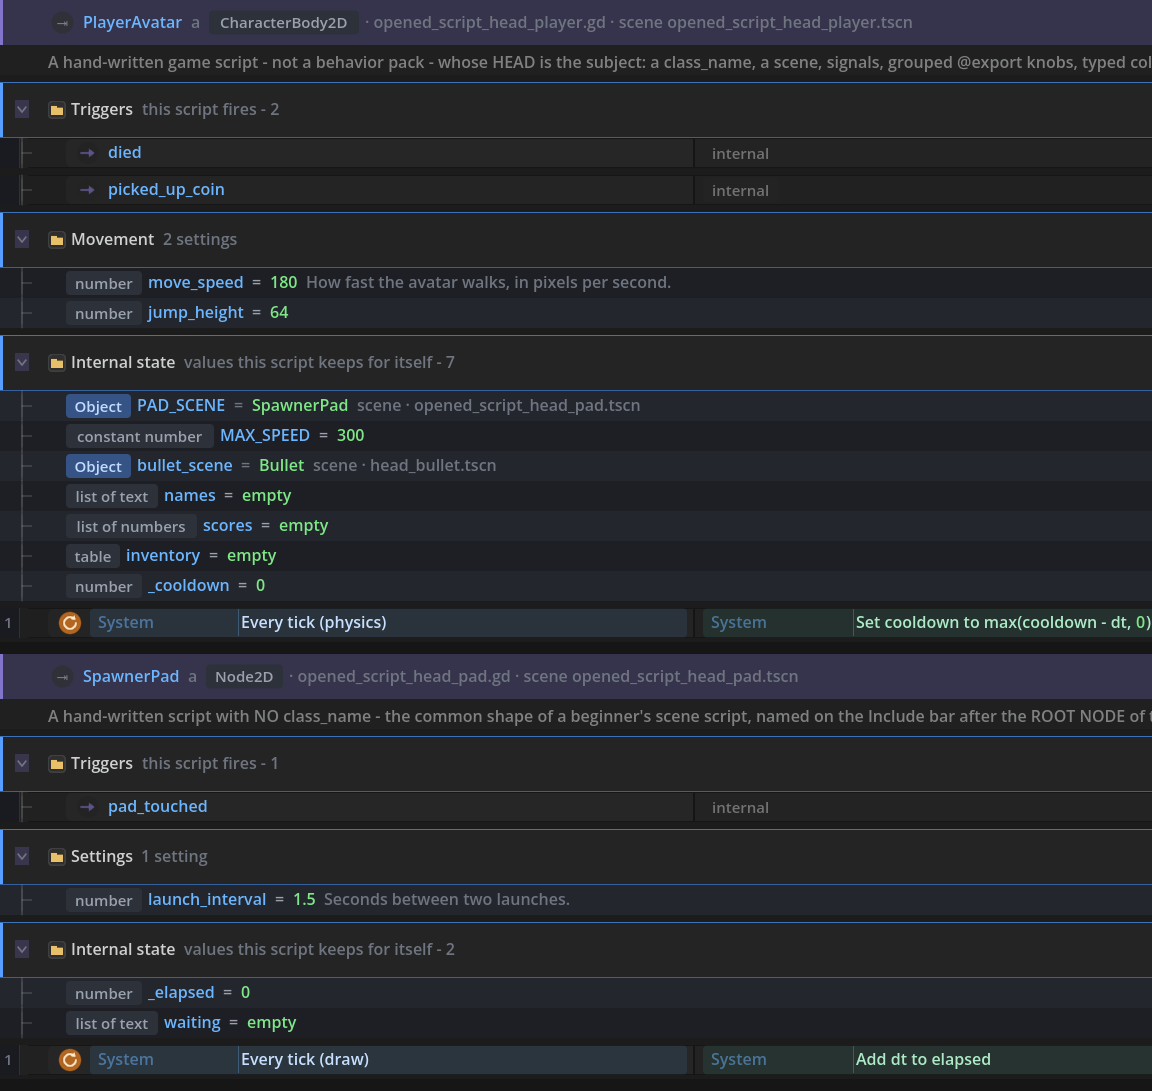
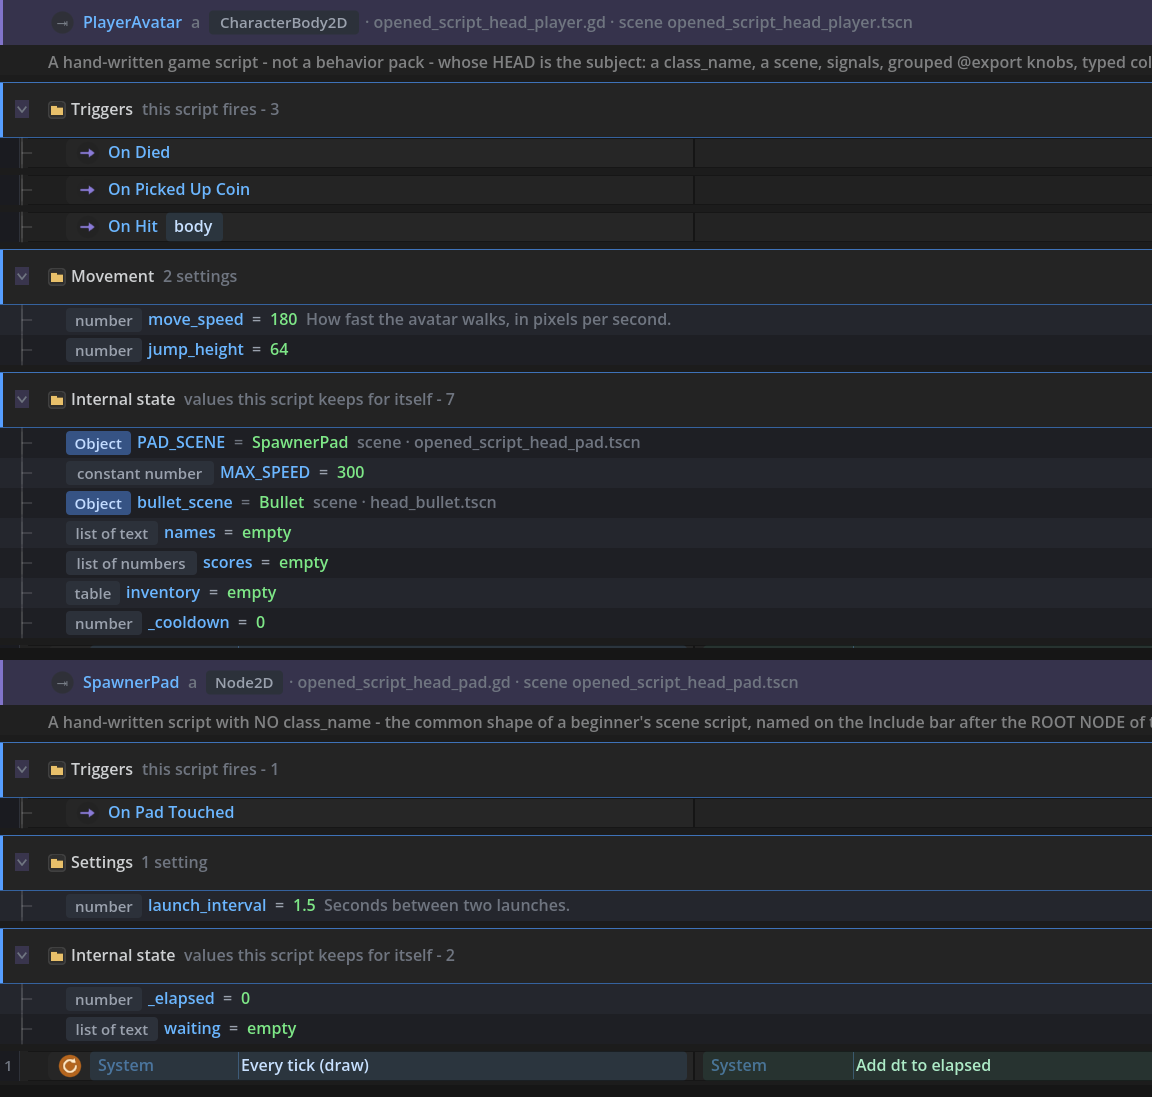
fix(editor): Compare wins over Is Same Object for literals, a plain script's signals read as its triggers, a lambda trigger's payload is a real chip
if i == 1 lifted as Is Same Object (its reverse template is the bare a == b);
identity now needs null / self / a node lookup / an object-typed member, so
literals and plain names read i = 1 / i ≠ 1. A plain script's Triggers folder
reads On Died / On Hit [body] instead of raw names with an internal note. Both
handler shapes draw the payload through one shared span, and the condition cell
reserves the width its trailing chips need instead of filling the lane.

diff --git a/CHANGELOG.md b/CHANGELOG.md
@@ -2,6 +2,29 @@
 
 ## [Unreleased]
 
+### Fixed - three rows of an opened file stopped saying things that were not true
+
+- **`if i == 1:` is a comparison, not an identity test.** Is The Same Object's reverse template is the
+  bare `{a} == {b}`, which matches every equality anybody ever wrote - so a loop counter against a
+  number read `i is the same object as 1`. The lifter now hands an equality to **Compare Variable**
+  unless one side is recognisably a reference (`null`, `self`, a `$Node` / `%Node` path, a `get_node`
+  / `get_parent()` lookup, or a member the file declared with an object type), and Is The Same Object
+  keeps only the rows it is actually about. `x == null` still reads `x does not exist`; the emitted
+  bytes are identical either way, because both templates emit `{a} == {b}`.
+- **And it reads the way a sheet reads it**: `i = 1`, `hp ≠ 3`. GDScript doubles the sign because a
+  language has to tell assignment from a question - a row is only ever the question.
+- **A plain script's signals are its triggers.** The Triggers folder listed them as raw rows -
+  `died | internal`, `picked_up_coin | internal`. They now read `➜ On Died`, `➜ On Picked Up Coin`,
+  `➜ On Hit  body` - the same shape every other trigger in the editor has, with the values the signal
+  passes as chips beside it. "internal" named a distinction only a behavior pack has, and a pack's
+  rows are unchanged.
+- **A connected lambda's payload is a chip, not words inside the cell.** `$Timer.timeout.connect(func(body): …)`
+  drew `On Hit   body` crammed into the trigger cell; it now draws the SAME payload span a lifted
+  signal handler's row draws, so one event reads one way whether it was wired with a `func` or a
+  lambda. The reason it was crammed in is fixed rather than worked around: a condition/trigger cell
+  reserves the width its trailing payload chips need instead of filling the lane to the divider and
+  leaving them a sliver - which is what a declared handler's `[body]` chip had been drawing as too.
+
 ### Added - the head of an opened plain script reads as the object it drives
 
 Opening somebody's own `.gd` used to say `⇥ Script` and then list GDScript type names -

diff --git a/addons/eventsheet/help/GUIDE-BLOCK-STYLES.md b/addons/eventsheet/help/GUIDE-BLOCK-STYLES.md
@@ -87,6 +87,10 @@ The ➜ badge (bright for a published trigger, dimmed for an internal signal), t
 one field cell per value the signal passes, and the action lane stating the one thing the left
 lane hides: `emits state_changed`, or `internal`.
 
+In an opened plain script the row takes the trigger shape instead - `➜ On Died`, `➜ On Hit  body` -
+because there every declared signal simply IS one of the file's triggers, with the values it passes
+as chips beside it. "internal" names a distinction only a behavior pack has.
+
 ## Published verbs (Define rows)
 
 A pack's exposed function reads as a Define row - role badge, friendly name, category chip -

diff --git a/docs/GUIDE-BLOCK-STYLES.md b/docs/GUIDE-BLOCK-STYLES.md
@@ -87,6 +87,10 @@ The ➜ badge (bright for a published trigger, dimmed for an internal signal), t
 one field cell per value the signal passes, and the action lane stating the one thing the left
 lane hides: `emits state_changed`, or `internal`.
 
+In an opened plain script the row takes the trigger shape instead - `➜ On Died`, `➜ On Hit  body` -
+because there every declared signal simply IS one of the file's triggers, with the values it passes
+as chips beside it. "internal" names a distinction only a behavior pack has.
+
 ## Published verbs (Define rows)
 
 A pack's exposed function reads as a Define row - role badge, friendly name, category chip -
